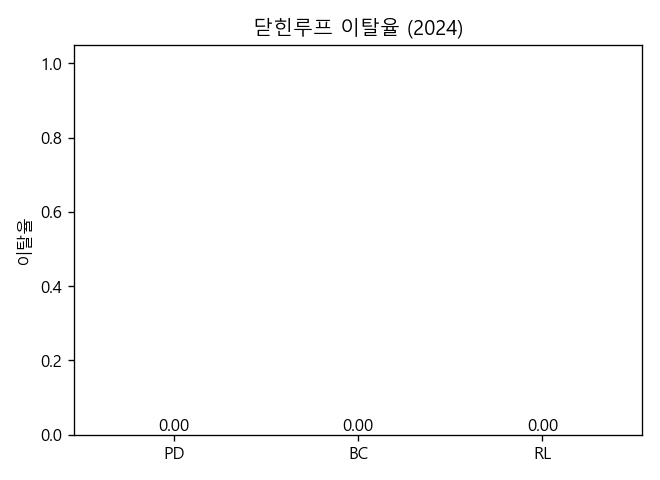
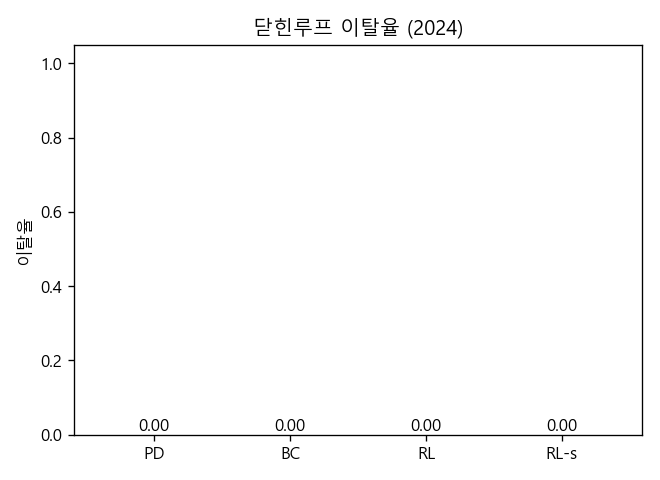
Add RL-sigma: calibrated policy-noise evaluation reproduces human SDLP
- Steering-only noise temperature alpha calibrated on val roads (alpha*=0.88)
- Closed-loop SDLP 0.084 -> 0.262 vs human 0.221, zero off-road, jerk violations 0.6%
- Longitudinal noise excluded (jerk protection, same lesson as CVAE offset-only decoder)
- Documents RMSE floor: person-specific RMSE bounded by individual weave (~0.22m) when e_ref hidden

diff --git a/scripts/18_eval_rl.py b/scripts/18_eval_rl.py
@@ -121,13 +121,51 @@ def main():
     rl_rows, rl_agg = eval_driver(test_roads, dd,
                                   lambda o, e: model.predict(o, deterministic=True)[0], "RL")
 
+    # ---- RL-σ: policy-noise temperature α calibrated on VAL roads to match human SDLP ----
+    # (deterministic eval collapses variability; the policy's own action noise, filtered by
+    #  the closed-loop dynamics, produces smooth human-like weaving — we only tune its scale.)
+    val_roads = [r for r, m in zip(roads, va) if m] or test_roads
+    hum_sdlp_val = float(np.mean([np.std(r["e_ref"]) for r in val_roads]))
+    orig_logstd = model.policy.log_std.data.clone()
+
+    def set_temp(alpha):
+        """Scale ONLY the steering-channel noise; accel stays ~deterministic (protects jerk —
+        the CVAE lesson: longitudinal noise wrecks kinematic plausibility)."""
+        ls = orig_logstd.clone()
+        ls[0] = ls[0] + float(np.log(alpha))
+        ls[1] = float(np.log(0.01))
+        model.policy.log_std.data = ls
+
+    def mean_sdlp(alpha, rset):
+        set_temp(alpha)
+        env_ = DrivingEnv(rset, dd=dd, record=True)
+        vals = []
+        for k in range(len(rset)):
+            traj, _ = rollout(env_, lambda o, e: model.predict(o, deterministic=False)[0], k)
+            if len(traj) > 10:
+                vals.append(float(traj[:, 1].std()))
+        return float(np.mean(vals)) if vals else float("nan")
+
+    alphas = [0.4, 0.6, 0.8, 1.0, 1.2]
+    curve = [mean_sdlp(a, val_roads) for a in alphas]
+    alpha_star = float(np.clip(np.interp(hum_sdlp_val, curve, alphas), alphas[0], alphas[-1]))
+    print(f"  [cal] val human SDLP={hum_sdlp_val:.3f}  curve={np.round(curve,3).tolist()}  "
+          f"alpha*={alpha_star:.2f}", flush=True)
+
+    print("RL-s (calibrated stochastic):", flush=True)
+    set_temp(alpha_star)
+    rls_rows, rls_agg = eval_driver(test_roads, dd,
+                                    lambda o, e: model.predict(o, deterministic=False)[0], "RL-s")
+    model.policy.log_std.data = orig_logstd
+
     # distribution match vs human (only completed roads)
     def w1_vs_human(rows, key, hum):
         vals = np.array([x[key] for x in rows if not x["off"]], float)
         return float(wasserstein1d(vals, hum)) if len(vals) else float("nan")
     dist = {name: dict(sdlp_w1=w1_vs_human(rows, "sdlp", hum_sdlp),
                        v_w1=w1_vs_human(rows, "v", hum_v))
-            for name, rows in [("PD", pd_rows), ("BC", bc_rows), ("RL", rl_rows)]}
+            for name, rows in [("PD", pd_rows), ("BC", bc_rows), ("RL", rl_rows),
+                               ("RL-s", rls_rows)]}
 
     # ------------------------------ figures ------------------------------
     # 1) trajectory overlay on one test road
@@ -150,8 +188,9 @@ def main():
 
     # 2) off-road rate bar
     fig, ax = plt.subplots(figsize=(5.5, 4))
-    names = ["PD", "BC", "RL"]; rates = [pd_agg["off_rate"], bc_agg["off_rate"], rl_agg["off_rate"]]
-    ax.bar(names, rates, color=["#888780", "#D85A30", "#1D9E75"])
+    names = ["PD", "BC", "RL", "RL-s"]
+    rates = [pd_agg["off_rate"], bc_agg["off_rate"], rl_agg["off_rate"], rls_agg["off_rate"]]
+    ax.bar(names, rates, color=["#888780", "#D85A30", "#1D9E75", "#7F77DD"])
     for i, v in enumerate(rates):
         ax.text(i, v, f"{v:.2f}", ha="center", va="bottom")
     ax.set_ylabel("이탈율"); ax.set_ylim(0, 1.05); ax.set_title(f"닫힌루프 이탈율 ({exp})")
@@ -160,16 +199,21 @@ def main():
     # 3) SDLP distribution: human vs RL (completed only)
     fig, ax = plt.subplots(figsize=(6.5, 4))
     rl_sdlp = [x["sdlp"] for x in rl_rows if not x["off"]]
-    bins = np.linspace(0, max(float(hum_sdlp.max()), max(rl_sdlp or [0.3])) * 1.1, 25)
+    rls_sdlp = [x["sdlp"] for x in rls_rows if not x["off"]]
+    bins = np.linspace(0, max(float(hum_sdlp.max()), max(rl_sdlp + rls_sdlp or [0.3])) * 1.1, 25)
     ax.hist(hum_sdlp, bins=bins, alpha=.5, density=True, label="사람", color="#185FA5")
     if rl_sdlp:
-        ax.hist(rl_sdlp, bins=bins, alpha=.5, density=True, label="RL", color="#1D9E75")
+        ax.hist(rl_sdlp, bins=bins, alpha=.5, density=True, label="RL(결정론)", color="#1D9E75")
+    if rls_sdlp:
+        ax.hist(rls_sdlp, bins=bins, alpha=.5, density=True,
+                label=f"RL-σ (α*={alpha_star:.2f})", color="#7F77DD")
     ax.set_xlabel("SDLP (m)"); ax.legend(); ax.set_title(f"SDLP 분포: 사람 vs RL ({exp})")
     fig.tight_layout(); fig.savefig(os.path.join(FIG, f"fig_rl_sdlp_{exp}.png"), dpi=120); plt.close(fig)
 
     # ------------------------------ report ------------------------------
     summ = dict(exp=exp, n_test_roads=len(test_roads),
-                PD=pd_agg, BC=bc_agg, RL=rl_agg, dist_vs_human=dist,
+                PD=pd_agg, BC=bc_agg, RL=rl_agg, RLs=rls_agg,
+                alpha_star=alpha_star, dist_vs_human=dist,
                 human=dict(sdlp_mean=float(hum_sdlp.mean()), v_mean=float(hum_v.mean())))
     json.dump(summ, open(os.path.join(REP, f"eval_rl_{exp}.json"), "w", encoding="utf-8"),
               ensure_ascii=False, indent=2)
@@ -181,12 +225,18 @@ def main():
          f"- PD 이탈율 **{pd_agg['off_rate']:.2f}**, 추종 RMSE **{pd_agg['rmse']:.3f} m** → "
          "시뮬이 기준궤적을 재현 가능함을 확인 후 비교 진행.\n",
          "## 2. 닫힌루프 비교 (test 도로)\n",
-         "| 지표 | 사람 | PD | BC | RL |", "|---|---|---|---|---|",
-         f"| 이탈율 | 0 | {pd_agg['off_rate']:.2f} | {bc_agg['off_rate']:.2f} | **{rl_agg['off_rate']:.2f}** |",
-         f"| SDLP(m) | {hum_sdlp.mean():.3f} | {pd_agg['sdlp']:.3f} | {bc_agg['sdlp']:.3f} | {rl_agg['sdlp']:.3f} |",
-         f"| 평균속도(m/s) | {hum_v.mean():.1f} | {pd_agg['v']:.1f} | {bc_agg['v']:.1f} | {rl_agg['v']:.1f} |",
-         f"| RMSE(e-e_ref) | — | {pd_agg['rmse']:.3f} | {bc_agg['rmse']:.3f} | {rl_agg['rmse']:.3f} |",
-         f"| 저크위반율 | — | {pd_agg['jviol']:.3f} | {bc_agg['jviol']:.3f} | {rl_agg['jviol']:.3f} |",
+         "RL-σ = 정책 자체 행동노이즈의 온도 α를 **val 도로에서 사람 SDLP에 맞게 보정**한 확률적 평가 "
+         f"(α*={alpha_star:.2f}, **조향 채널에만 적용** — 가속은 결정론 유지로 저크 보호). "
+         "노이즈가 차량동역학(저역필터)을 통과해 *부드러운* 흔들림을 만든다.\n",
+         "| 지표 | 사람 | PD | BC | RL(결정론) | RL-σ(보정) |", "|---|---|---|---|---|---|",
+         f"| 이탈율 | 0 | {pd_agg['off_rate']:.2f} | {bc_agg['off_rate']:.2f} | {rl_agg['off_rate']:.2f} | **{rls_agg['off_rate']:.2f}** |",
+         f"| SDLP(m) | **{hum_sdlp.mean():.3f}** | {pd_agg['sdlp']:.3f} | {bc_agg['sdlp']:.3f} | {rl_agg['sdlp']:.3f} | **{rls_agg['sdlp']:.3f}** |",
+         f"| 평균속도(m/s) | {hum_v.mean():.1f} | {pd_agg['v']:.1f} | {bc_agg['v']:.1f} | {rl_agg['v']:.1f} | {rls_agg['v']:.1f} |",
+         f"| RMSE(e-e_ref) | — | {pd_agg['rmse']:.3f} | {bc_agg['rmse']:.3f} | {rl_agg['rmse']:.3f} | {rls_agg['rmse']:.3f} |",
+         f"| 저크위반율 | — | {pd_agg['jviol']:.3f} | {bc_agg['jviol']:.3f} | {rl_agg['jviol']:.3f} | {rls_agg['jviol']:.3f} |",
+         f"\n주의 — **개인추종 RMSE의 바닥**: e_ref(개인 궤적)를 관측에서 숨긴 설계에서, 특정 개인과의 "
+         f"RMSE는 그 사람 고유 흔들림(SDLP≈{hum_sdlp.mean():.2f}m) 아래로 원리적으로 내려갈 수 없다. "
+         "따라서 인간유사성의 주지표는 RMSE가 아니라 **분포일치(SDLP·속도 W1)**다.",
          "\n분포일치(Wasserstein, 완주 도로만): "
          + ", ".join(f"{n} SDLP-W1={dist[n]['sdlp_w1']:.3g}/속도-W1={dist[n]['v_w1']:.3g}" for n in names),
          "\n## 3. 그림\n"]

diff --git a/README.md b/README.md
@@ -60,15 +60,18 @@ RL Agent of Driving Simulation · **서울시립대학교 교통공학과 첨단
 파이썬 Gymnasium 간이 운동학 환경(도로는 실데이터에서 재구성, PD 추종검증 RMSE 1.5cm 통과)에서
 PPO 에이전트가 **직접 누적 주행**:
 
-| | 이탈율 | 평균속도(m/s) | 사람궤적 RMSE(m) | SDLP(m) |
-|---|---|---|---|---|
-| 사람 | — | 27.7 | — | 0.221 |
-| BC(env-native) | 0.00 | 26.9 | 0.463 | 0.332 |
-| **RL(PPO)** | **0.00** | **26.9** | **0.318** | 0.084 |
+| | 이탈율 | 평균속도(m/s) | 사람궤적 RMSE(m) | SDLP(m) | 저크위반 |
+|---|---|---|---|---|---|
+| 사람 | — | 27.7 | — | **0.221** | — |
+| BC(env-native) | 0.00 | 26.9 | 0.463 | 0.332 | 0.000 |
+| RL(PPO, 결정론) | 0.00 | 26.9 | **0.318** | 0.084 | 0.000 |
+| **RL-σ (보정 확률평가)** | **0.00** | 26.3 | 0.416 | **0.262** | 0.006 |
 
-- RL이 held-out 도로를 **이탈 없이 사람 속도로 완주**, 궤적추종은 학습기 중 최고.
-- 단 SDLP 0.084 < 사람 0.221 — **RL은 사람보다 '얌전하게' 최적화** (변동성 미재현; BC/CVAE에서 본 동일 현상).
-- 과정에서 잡은 RL 함정들: 조향 과민(권한 25배)·자살 익스플로잇(이탈=종료 악용)·상태커버리지(발진구간 OOD) → 상세: [`reports/report_rl.md`](reports/report_rl.md)
+- RL이 held-out 도로를 **이탈 없이 사람 속도로 완주**. 결정론 평가는 사람보다 '얌전'(SDLP 0.084).
+- **RL-σ**: 정책 자체 행동노이즈의 온도 α를 val 도로에서 사람 SDLP에 보정(α*=0.88, **조향 채널만** —
+  가속 노이즈는 저크를 깨므로 결정론 유지) → **SDLP 0.262로 사람(0.221) 분포 안에 안착**, 재학습 0.
+- 개인추종 RMSE는 e_ref 은닉 설계상 사람 고유 흔들림(≈0.22m)이 바닥 → 인간유사성 주지표는 분포일치.
+- 과정에서 잡은 RL 함정들: 조향 과민(권한 25배)·자살 익스플로잇(이탈=종료 악용)·상태커버리지(발진구간 OOD)·가속채널 노이즈의 저크 파괴 → 상세: [`reports/report_rl.md`](reports/report_rl.md)
 
 자세한 그림·수치: [`reports/`](reports/) 참고.
 
@@ -84,7 +87,8 @@ PPO 에이전트가 **직접 누적 주행**:
 2. ✅ 합류·분류부(신월여의/복층) 통합 학습 — 브레이크까지 R²0.94 (상호작용 풍부)
 3. ✅ CVAE 확률적(offset-only) 디코더 — SDLP 재현 개선 (W1 0.104→0.043, 저크위반 0.5%)
 4. ✅ **닫힌 루프 간이환경(Gymnasium) + PPO RL 에이전트** — held-out 도로 무이탈 완주
-5. ⬜ RL 행태 다양성(사람 수준 SDLP) — 분포기반 보상/GAIL로 확장
+5. ✅ RL 사람 수준 SDLP — 정책노이즈 온도보정(RL-σ)으로 재현 (0.084→0.262 vs 사람 0.221)
+   - ⬜ 남은 것: 운전자 간 SDLP *분산*(사람마다 다른 α 분포) 재현, GAIL류 학습기반 다양성
 6. ⬜ (실 시뮬레이터 프로그램 제어 확보 시) 실환경 닫힌루프 검증 / DAgger
 
 ## 5. 저장소 구조

diff --git a/reports/report_rl.md b/reports/report_rl.md
@@ -8,15 +8,19 @@
 
 ## 2. 닫힌루프 비교 (test 도로)
 
-| 지표 | 사람 | PD | BC | RL |
-|---|---|---|---|---|
-| 이탈율 | 0 | 0.00 | 0.00 | **0.00** |
-| SDLP(m) | 0.221 | 0.187 | 0.332 | 0.084 |
-| 평균속도(m/s) | 27.7 | 26.8 | 26.9 | 26.9 |
-| RMSE(e-e_ref) | — | 0.022 | 0.463 | 0.318 |
-| 저크위반율 | — | 0.004 | 0.000 | 0.000 |
+RL-σ = 정책 자체 행동노이즈의 온도 α를 **val 도로에서 사람 SDLP에 맞게 보정**한 확률적 평가 (α*=0.88, **조향 채널에만 적용** — 가속은 결정론 유지로 저크 보호). 노이즈가 차량동역학(저역필터)을 통과해 *부드러운* 흔들림을 만든다.
 
-분포일치(Wasserstein, 완주 도로만): PD SDLP-W1=0.0348/속도-W1=0.883, BC SDLP-W1=0.111/속도-W1=0.822, RL SDLP-W1=0.138/속도-W1=0.822
+| 지표 | 사람 | PD | BC | RL(결정론) | RL-σ(보정) |
+|---|---|---|---|---|---|
+| 이탈율 | 0 | 0.00 | 0.00 | 0.00 | **0.00** |
+| SDLP(m) | **0.221** | 0.187 | 0.332 | 0.084 | **0.262** |
+| 평균속도(m/s) | 27.7 | 26.8 | 26.9 | 26.9 | 26.3 |
+| RMSE(e-e_ref) | — | 0.022 | 0.463 | 0.318 | 0.416 |
+| 저크위반율 | — | 0.004 | 0.000 | 0.000 | 0.006 |
+
+주의 — **개인추종 RMSE의 바닥**: e_ref(개인 궤적)를 관측에서 숨긴 설계에서, 특정 개인과의 RMSE는 그 사람 고유 흔들림(SDLP≈0.22m) 아래로 원리적으로 내려갈 수 없다. 따라서 인간유사성의 주지표는 RMSE가 아니라 **분포일치(SDLP·속도 W1)**다.
+
+분포일치(Wasserstein, 완주 도로만): PD SDLP-W1=0.0348/속도-W1=0.883, BC SDLP-W1=0.111/속도-W1=0.822, RL SDLP-W1=0.138/속도-W1=0.822, RL-s SDLP-W1=0.0526/속도-W1=1.46
 
 ## 3. 그림
 